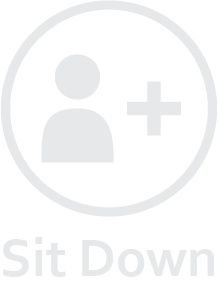
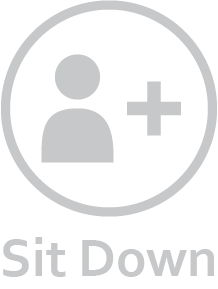
Game room layout done!

diff --git a/resources/static/css/game.css b/resources/static/css/game.css
@@ -10,8 +10,84 @@
     top:0;
     left:0;
     right:10%;
-    bottom:15%;
+    bottom:12%;
     margin: auto;
+}
+#start-game {
+    position: absolute;
+    top: 43%;
+    left: 45%;
+    -ms-transform: translate(-50%, -50%);
+    transform: translate(-50%, -50%);
+
+    border: none;
+    outline: none;
+    cursor: pointer;
+    transition: 0.3s;
+    text-align: center;
+    display:inline-block;
+    color: black;
+    background-color: white;
+    padding: 15px;
+    text-decoration: none;
+    font-size: 25px;
+    font-family: Amaranth, serif;
+    border-radius: 15px;
+    margin-right: 20px;
+}
+#start-game:hover {
+    background-color: #CFFFC0;
+}
+.sit-down {
+    position: absolute;
+    margin: auto;
+    width: 7%;
+    height: 11%;
+    background: url('../img/sit-down1a.png') no-repeat;
+    background-size: contain;
+}
+.sit-down:hover {
+    cursor: hand;
+    width: 7%;
+    height: 11%;
+    background: url('../img/sit-down2a.png') no-repeat;
+    background-size: contain;
+}
+#sit-down1 {
+    top:6%;
+    left:35%;
+}
+#sit-down2 {
+    top:6%;
+    left:50%;
+}
+#sit-down3 {
+    top:14%;
+    left:63.5%;
+}
+#sit-down4 {
+    top:42%;
+    left:67%;
+}
+#sit-down5 {
+    top:67.5%;
+    left:59%;
+}
+#sit-down6 {
+    top:69%;
+    left:43%;
+}
+#sit-down7 {
+    top:67.5%;
+    left:27%;
+}
+#sit-down8 {
+    top:42%;
+    left:17.5%;
+}
+#sit-down9 {
+    top:14%;
+    left:21%;
 }
 
 /* Bottom panel */
@@ -60,7 +136,7 @@
     width: 6%;
     border: none;
     outline: none;
-    cursor: pointer;
+    cursor: text;
     transition: 0.3s;
     text-align: center;
     display:inline-block;

diff --git a/resources/templates/game.html b/resources/templates/game.html
@@ -8,7 +8,16 @@
 <script src="{{ url_for('static', filename='./js/game.js') }}"></script>
 <div class="content-desktop" id="game">
   <img id="board" src="{{ url_for('static', filename='./img/poker-board.png') }}">
-  <img id="sit-down" src="{{ url_for('static', filename='./img/sit-down1.png') }}">
+  <div class = "sit-down" id="sit-down1"></div>
+  <div class = "sit-down" id="sit-down2"></div>
+  <div class = "sit-down" id="sit-down3"></div>
+  <div class = "sit-down" id="sit-down4"></div>
+  <div class = "sit-down" id="sit-down5"></div>
+  <div class = "sit-down" id="sit-down6"></div>
+  <div class = "sit-down" id="sit-down7"></div>
+  <div class = "sit-down" id="sit-down8"></div>
+  <div class = "sit-down" id="sit-down9"></div>
+  <button id="start-game">Start Game</button>
 </div>
 <div class="content-desktop" id="bot-control">
   <div id="main-buttons">
@@ -37,7 +46,7 @@
   </div>
   <div id="buy-in-amount">
     <form autocomplete="off">
-      <label for="buy-in-actual" class="game-label" id="buy-in-label">Buy in for: </label>
+      <label for="buy-in-actual" class="game-label" id="buy-in-label">Buy in for:</label>
       <input type="text" id="buy-in-actual" class="game-form">
     </form>
   </div>
